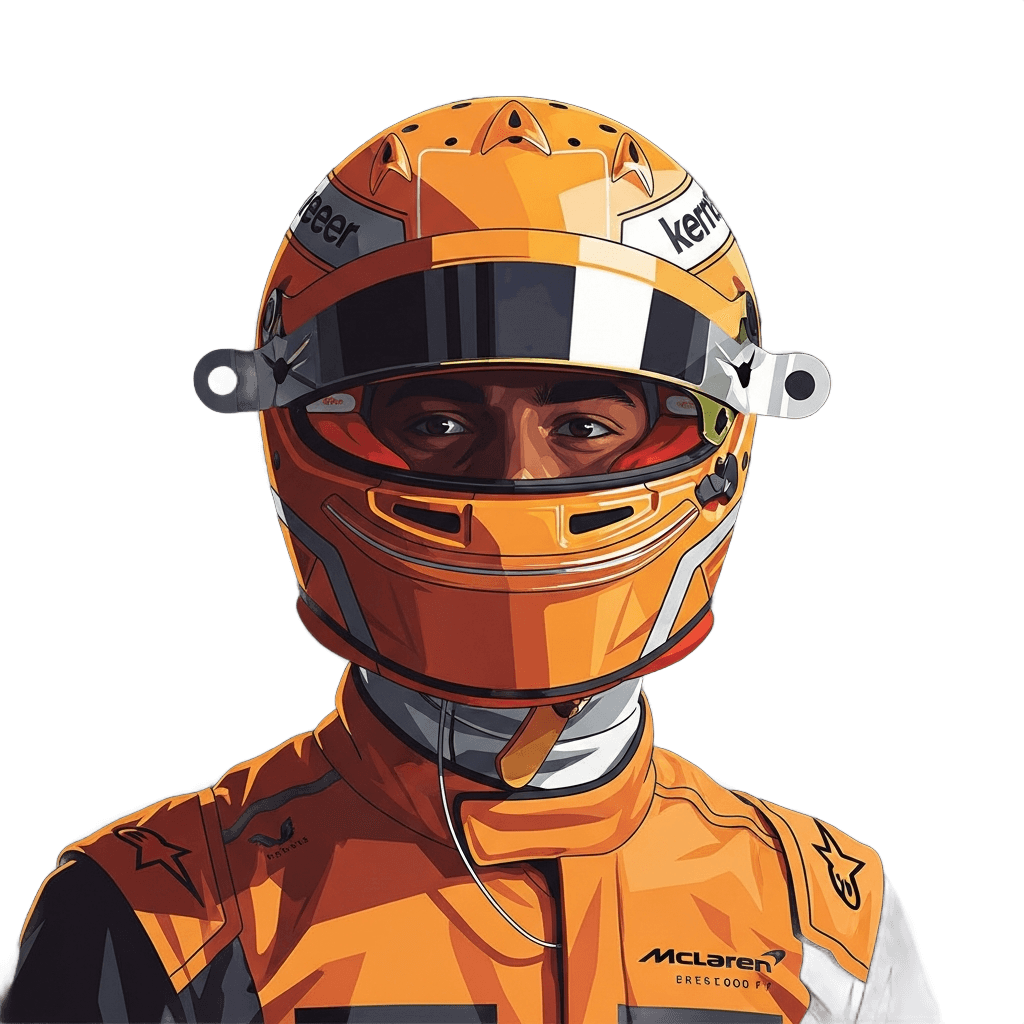
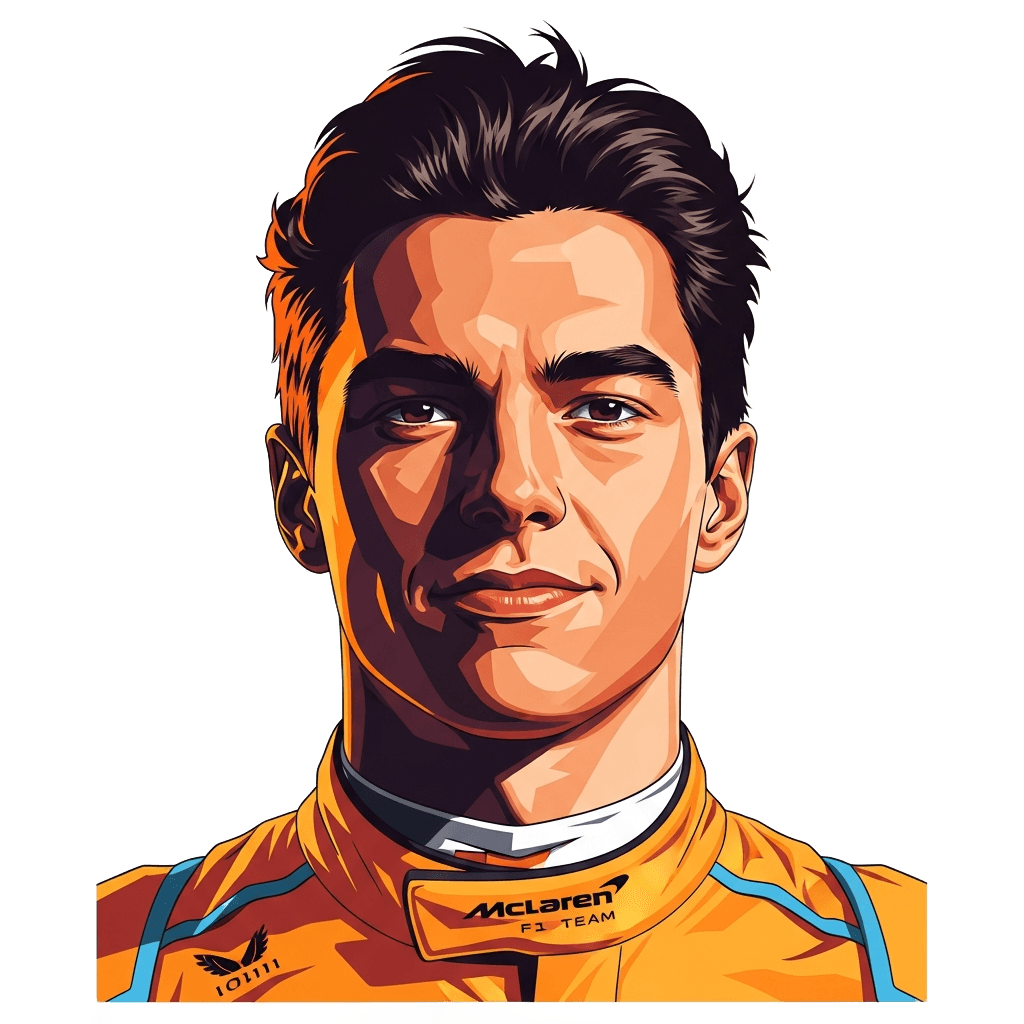
Regenerate driver portraits without helmets, faces visible

diff --git a/scripts/generate-driver-images.js b/scripts/generate-driver-images.js
@@ -88,12 +88,7 @@ async function main() {
     const filename = `driver-${driver.id}.png`;
     const filepath = path.join(OUTPUT_DIR, filename);
 
-    if (fs.existsSync(filepath)) {
-      console.log(`⏭  Skipping ${driver.name} (already exists)`);
-      continue;
-    }
-
-    const prompt = `Formula 1 racing driver portrait illustration, ${driver.name}, ${driver.team} F1 team colors (${driver.color}), wearing racing helmet and fireproof suit, dramatic studio lighting, dark background, highly stylized graphic art style, bold colors, clean modern design, no text, square composition`;
+    const prompt = `Formula 1 racing driver portrait illustration, ${driver.name}, ${driver.team} F1 team colors (${driver.color}), no helmet, face visible, wearing fireproof racing suit collar, confident expression, dramatic studio lighting, plain white background, highly stylized graphic art style, bold colors, clean modern design, no text, square composition, headshot`;
 
     try {
       console.log(`🎨 Generating ${driver.name} (${driver.team})...`);
